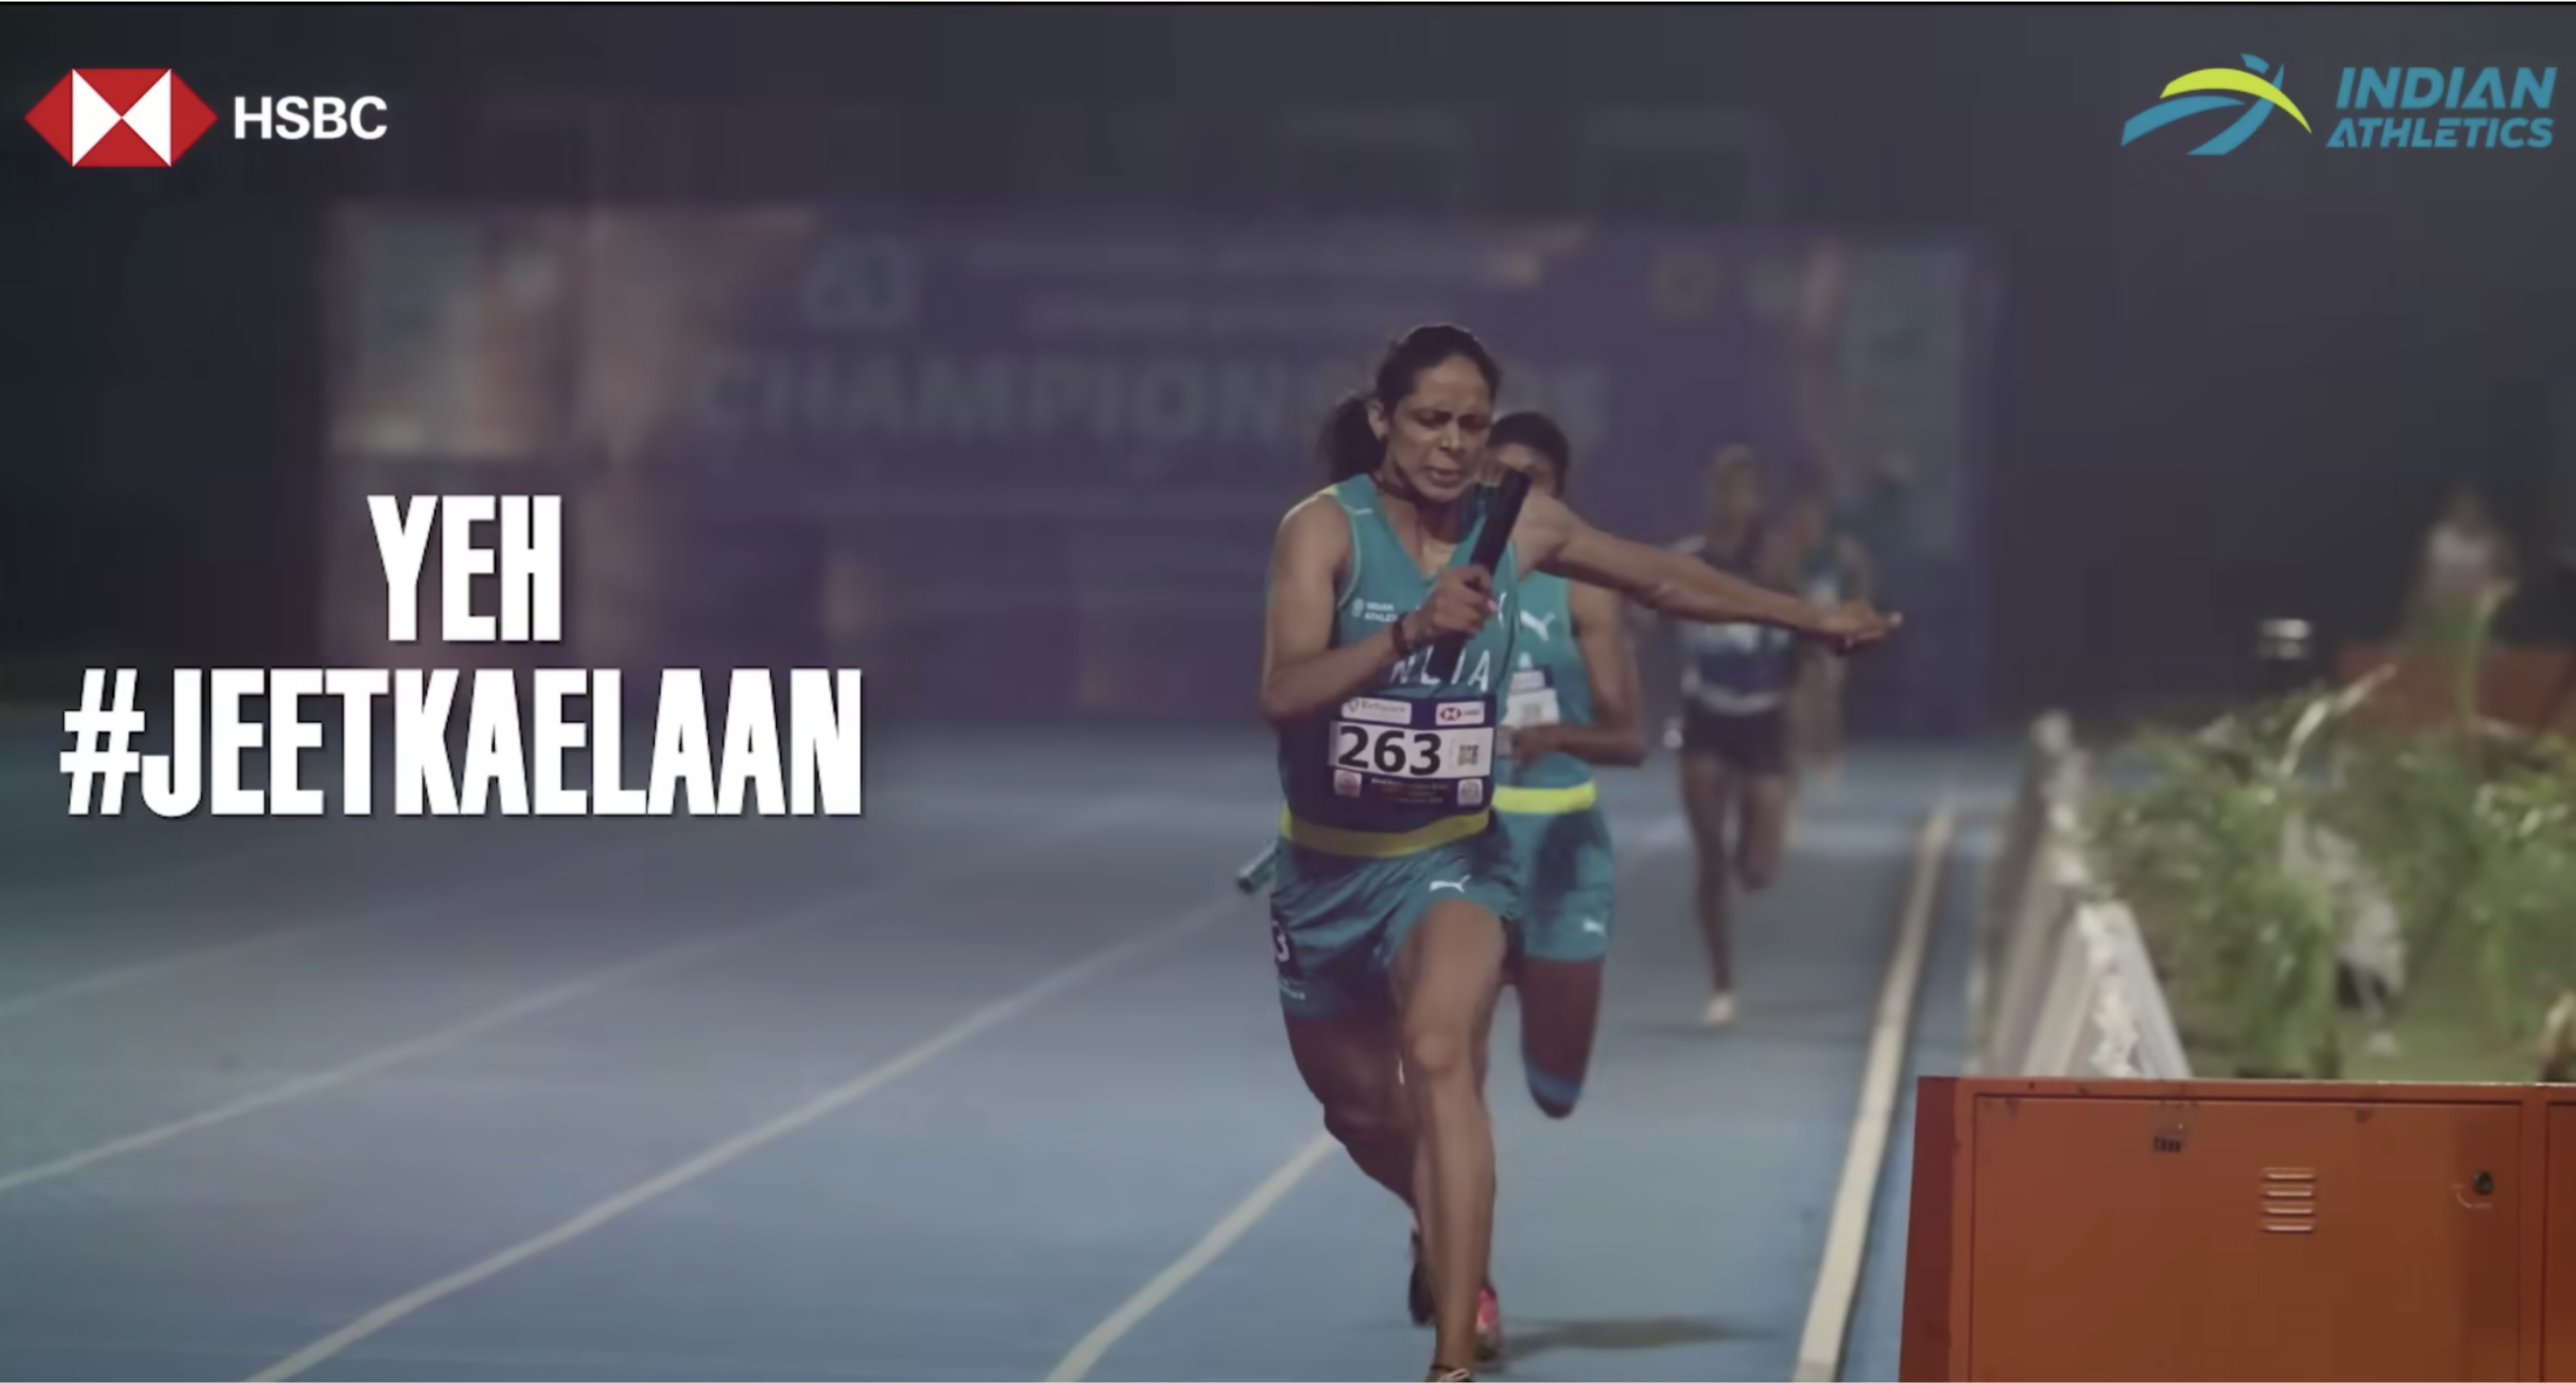
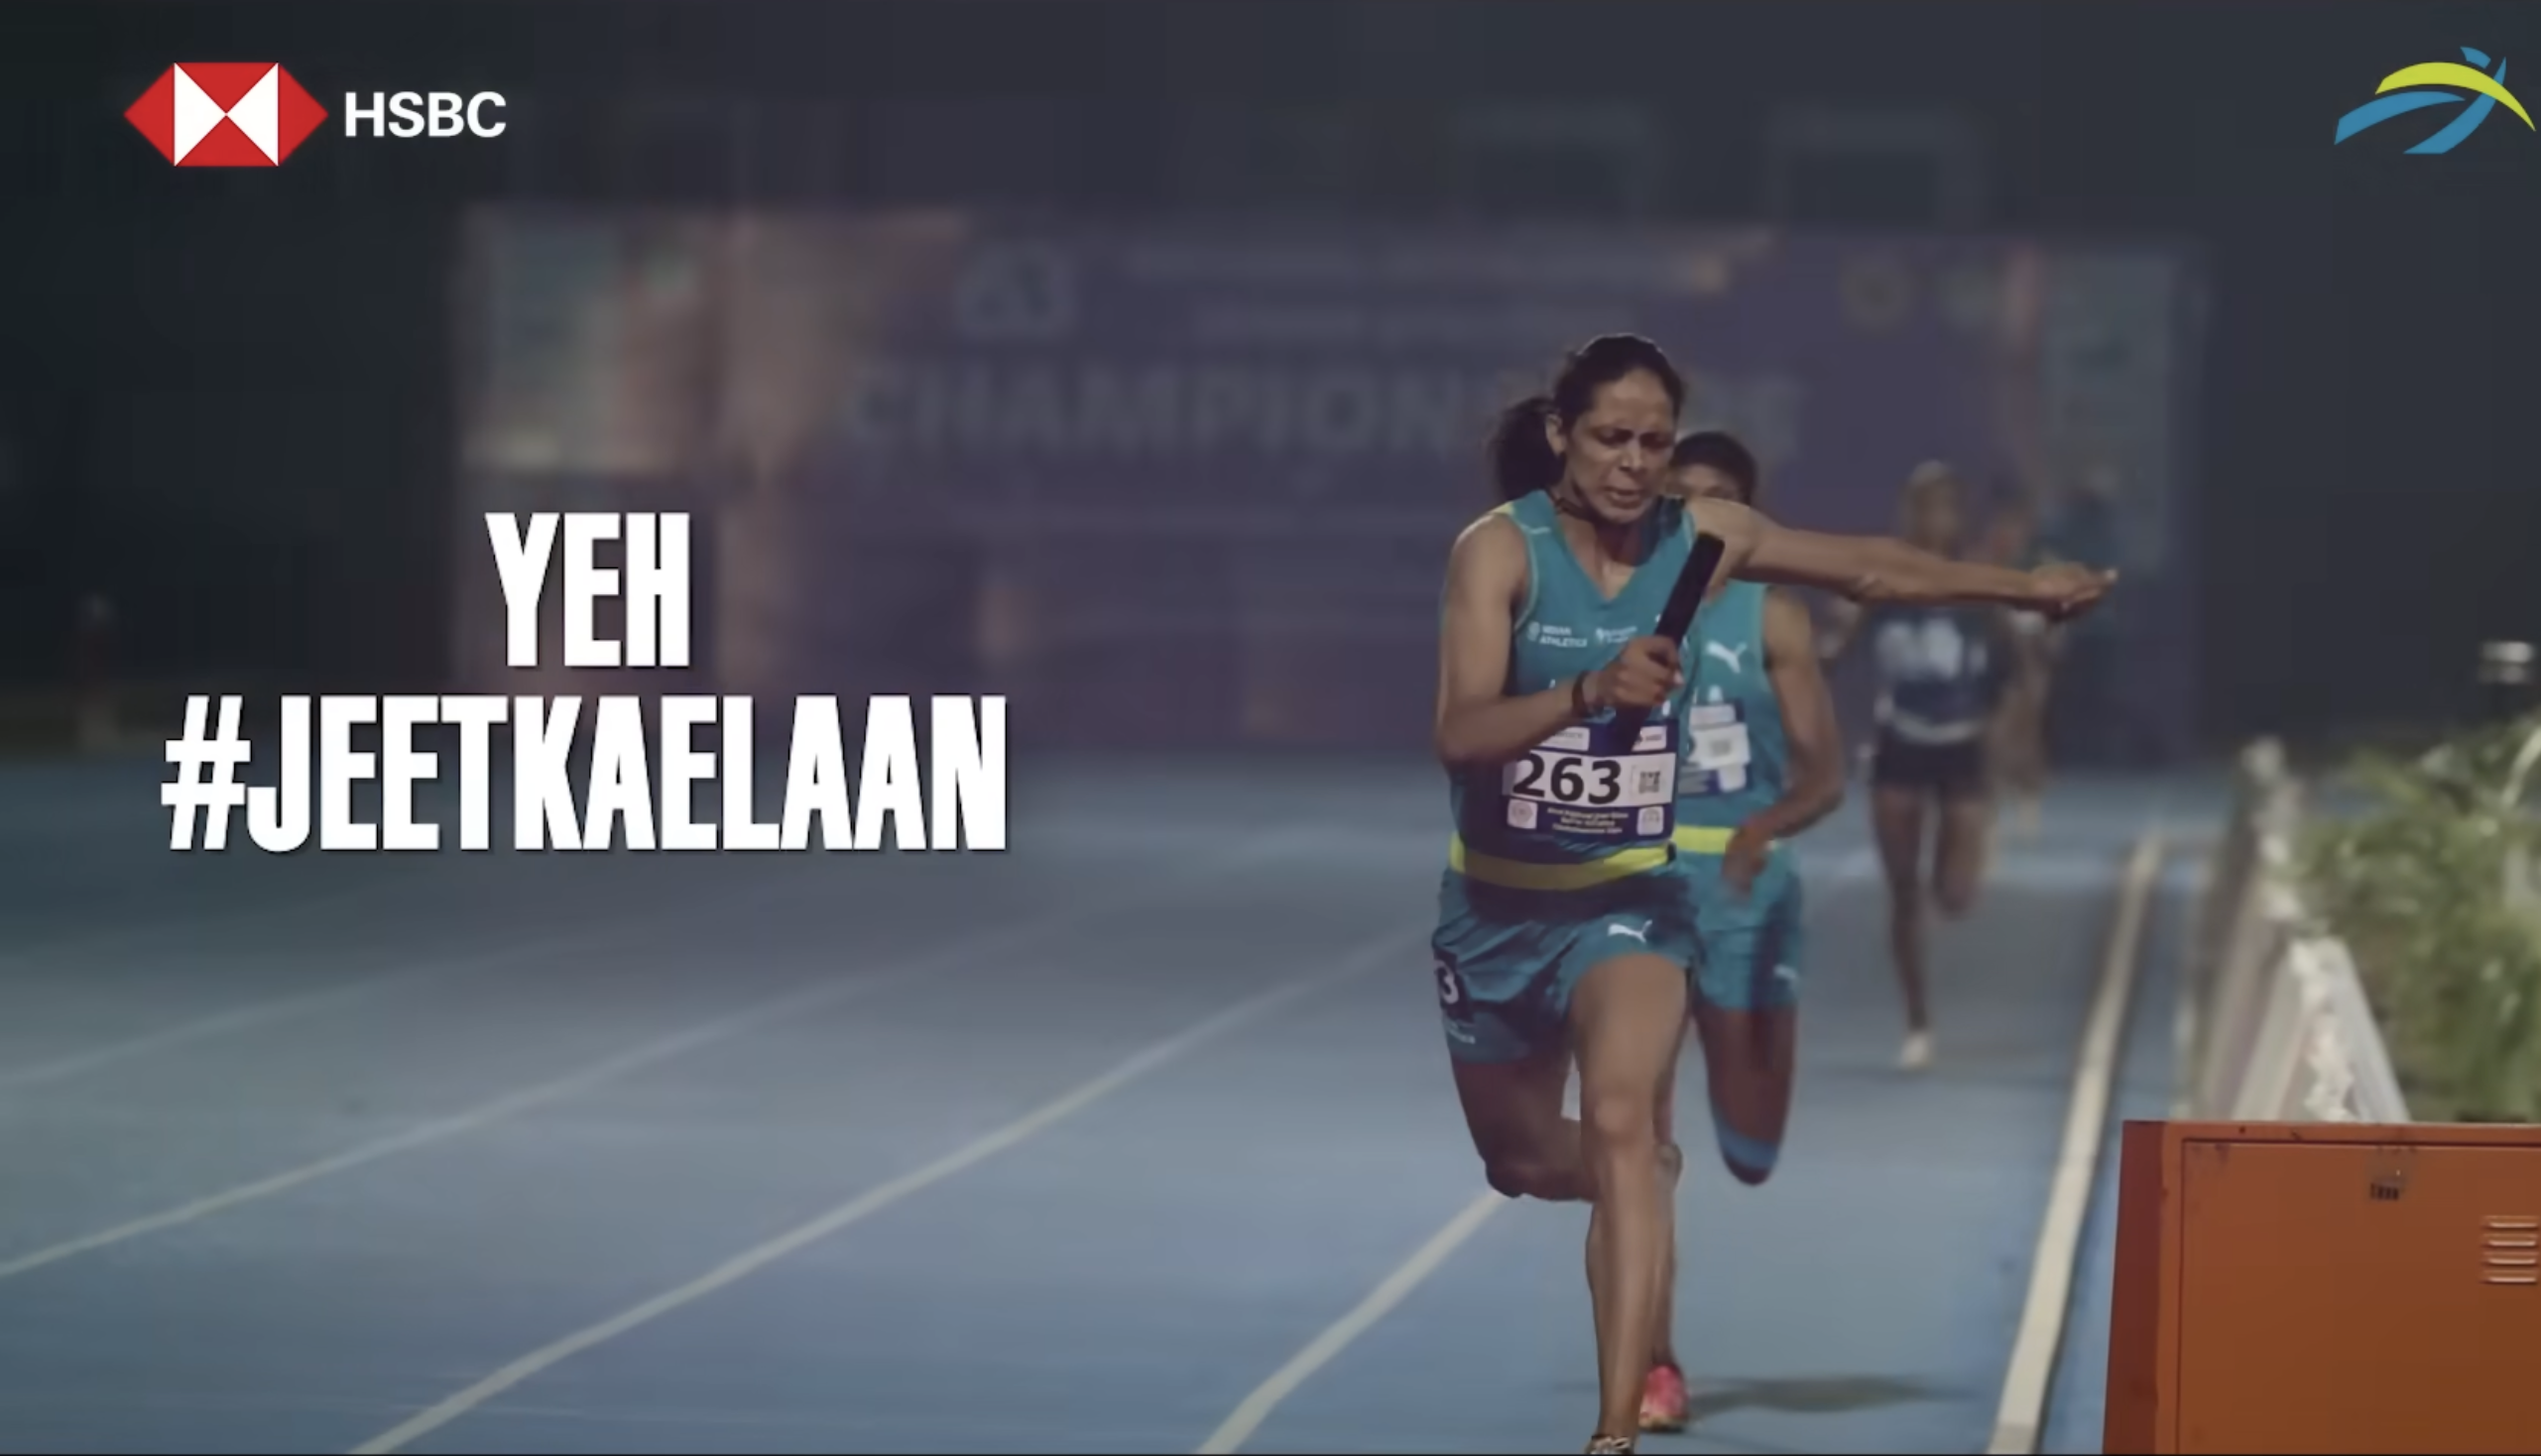
update

diff --git a/src/components/HorizontalProjects.jsx b/src/components/HorizontalProjects.jsx
@@ -251,7 +251,7 @@ const HorizontalProjects = () => {
                 whileHover={{ scale: 0.985 }}
                 transition={{ duration: 0.6, ease: [0.16, 1, 0.3, 1] }}
               >
-                <motion.img src={item.image} style={{ width: "100%", height: "100%", objectFit: "cover" }} alt={item.title} />
+                <motion.img src={item.image} style={{ position: "absolute", inset: 0, width: "100%", height: "100%", objectFit: "cover", objectPosition: "top" }} alt={item.title} />
                 <div style={{ position: "absolute", inset: 0, background: "linear-gradient(to top, rgba(0,0,0,0.8) 0%, rgba(0,0,0,0.2) 50%, transparent 100%)", zIndex: 1 }} />
                 <div className="card-content" style={{ position: "absolute", bottom: "4rem", left: "4rem", right: "4rem", color: "white", zIndex: 2, display: "flex", justifyContent: "space-between", alignItems: "flex-end" }}>
                   <div>